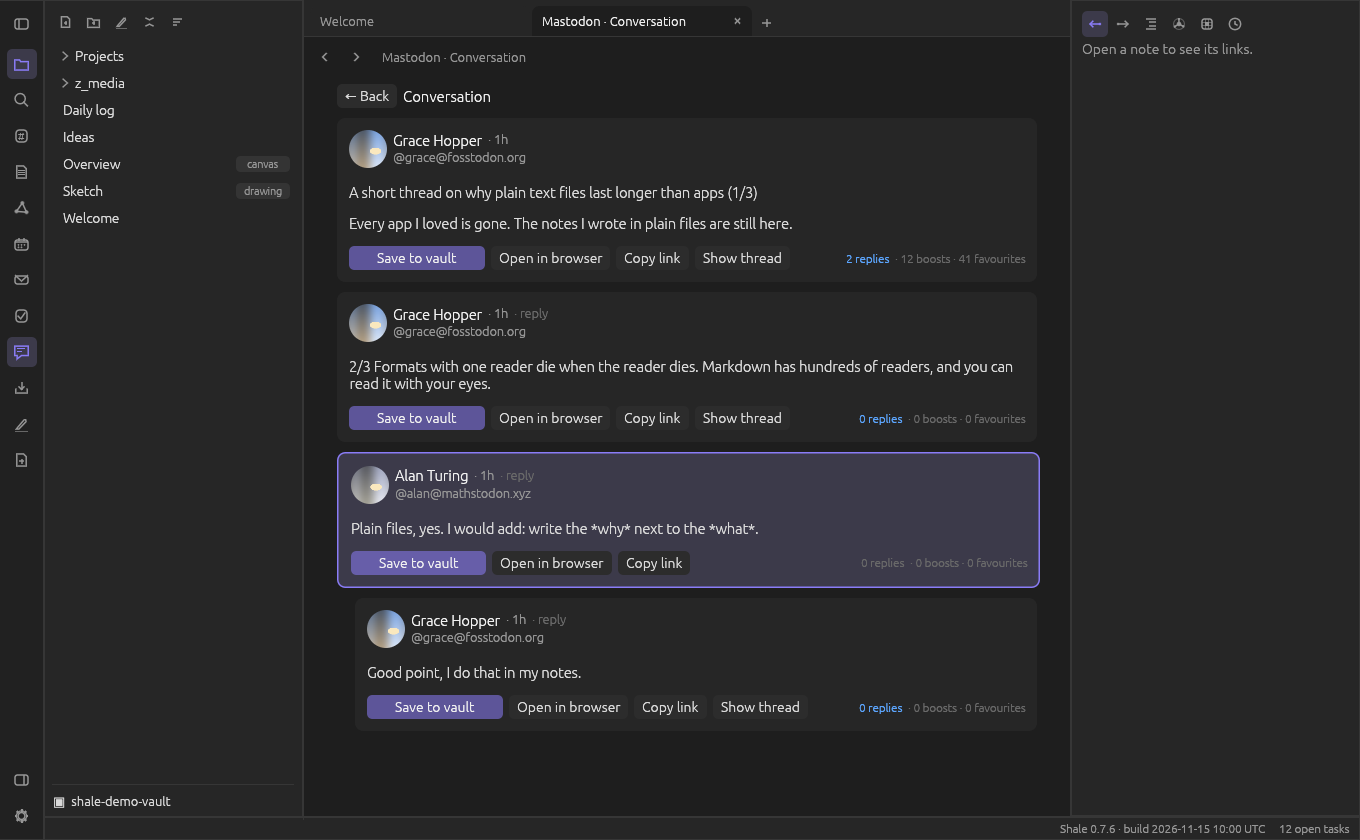
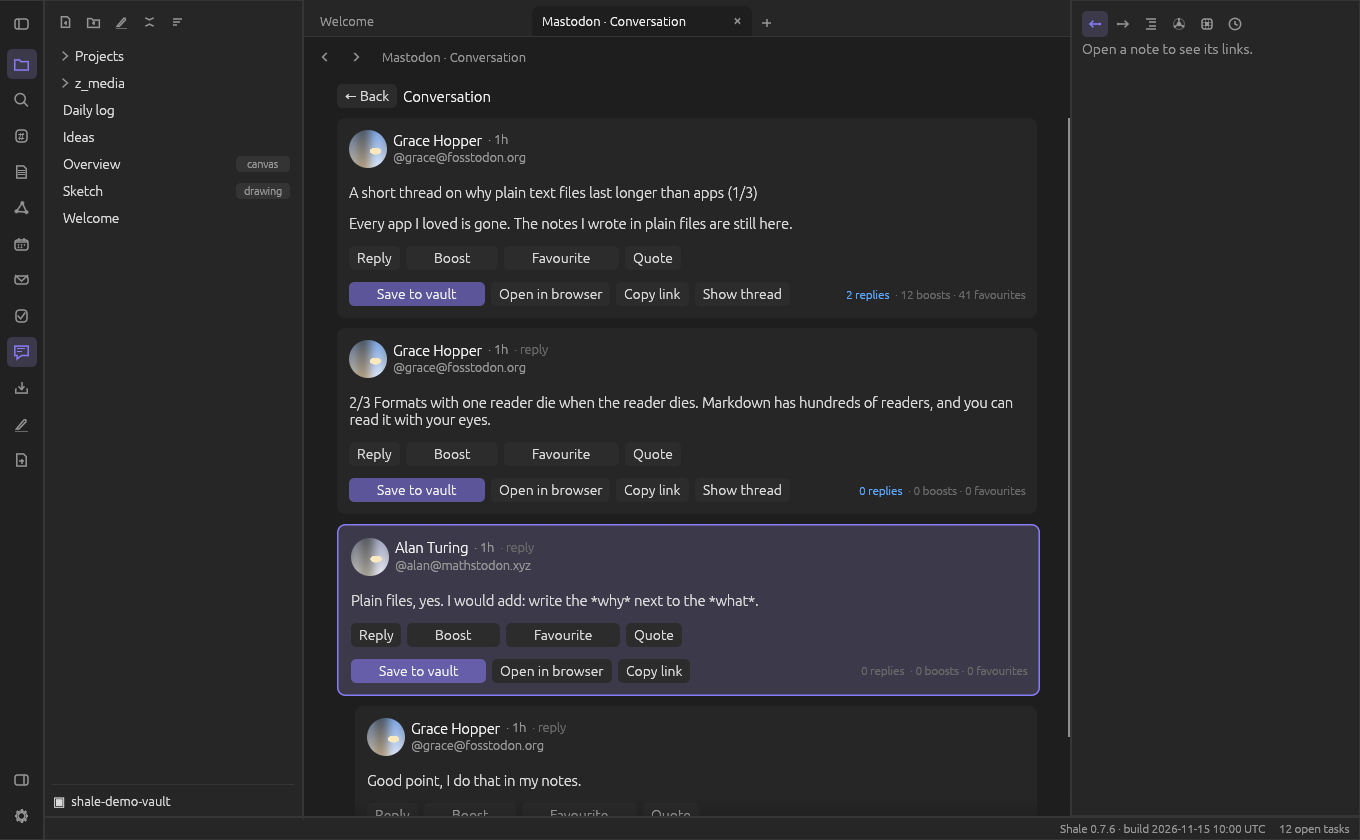
Docs, screenshots and changelog for writing to the feeds
FEATURES, the Feeds guide note, the settings reference (scopes), README,
changelog entry, a compose-box screenshot recipe and refreshed Feeds
screenshots (the cards have the new buttons). Upload temp files now go
through fsutil (private folder); spec references fixed.

Closes #561

diff --git a/src/social/actions.rs b/src/social/actions.rs
@@ -198,7 +198,7 @@ pub fn prepare(path: &Path, network: Network, limit: u64) -> Result<Prepared, St
     if meta.len() > MAX_MEDIA_BYTES {
         return Err(format!("{name} is too big ({} MB)", meta.len() / 1_000_000));
     }
-    let bytes = std::fs::read(path).map_err(|e| format!("{name} cannot be read ({e})"))?;
+    let bytes = crate::fsutil::read(path).map_err(|e| format!("{name} cannot be read ({e})"))?;
     let (mime, ext, format) = match image::guess_format(&bytes) {
         Ok(f @ image::ImageFormat::Png) => ("image/png", "png", f),
         Ok(f @ image::ImageFormat::Jpeg) => ("image/jpeg", "jpg", f),
@@ -257,18 +257,13 @@ pub struct TempFile(pub PathBuf);
 
 impl TempFile {
     pub fn new(bytes: &[u8], ext: &str) -> Result<TempFile, String> {
-        use std::io::Write;
         use std::sync::atomic::{AtomicUsize, Ordering};
         static N: AtomicUsize = AtomicUsize::new(0);
-        let path = std::env::temp_dir().join(format!("shale-upload-{}-{}.{ext}", std::process::id(), N.fetch_add(1, Ordering::SeqCst)));
-        let mut opts = std::fs::OpenOptions::new();
-        opts.write(true).create_new(true);
-        #[cfg(unix)]
-        std::os::unix::fs::OpenOptionsExt::mode(&mut opts, 0o600);
-        let mut f = opts.open(&path).map_err(|e| format!("could not prepare the picture ({e})"))?;
-        let t = TempFile(path);
-        f.write_all(bytes).map_err(|e| format!("could not prepare the picture ({e})"))?;
-        Ok(t)
+        // a folder only this user can enter (the runtime folder, else a private one in the temp folder)
+        let dir = crate::fsutil::private_temp_root("shale-upload").map_err(|e| format!("could not prepare the picture ({e})"))?;
+        let path = dir.join(format!("{}-{}.{ext}", std::process::id(), N.fetch_add(1, Ordering::SeqCst)));
+        crate::fsutil::create_new(&path, bytes).map_err(|e| format!("could not prepare the picture ({e})"))?;
+        Ok(TempFile(path))
     }
 }
 
@@ -464,7 +459,7 @@ pub(crate) mod tests {
         p
     }
 
-    // spec: SOC-053
+    // spec: SOC-053, SEC-026
     #[test]
     fn a_picture_is_read_for_upload_and_what_is_no_picture_or_too_big_is_refused_with_words() {
         let ok = file("small.png", &png(40, 30, false));
@@ -495,14 +490,15 @@ pub(crate) mod tests {
         assert!(prepare(&big, Network::Bluesky, 500).unwrap_err().contains("cannot be made small enough"));
     }
 
-    // spec: SOC-053
+    // spec: SOC-053, SEC-026
     #[test]
     fn the_file_curl_reads_is_private_and_gone_after_the_upload() {
         let t = TempFile::new(b"data", "png").unwrap();
         let path = t.0.clone();
-        assert_eq!(std::fs::read(&path).unwrap(), b"data");
+        assert_eq!(crate::fsutil::read(&path).unwrap(), b"data");
+        // it lies in a folder that only this user can enter
         #[cfg(unix)]
-        assert_eq!(std::os::unix::fs::PermissionsExt::mode(&std::fs::metadata(&path).unwrap().permissions()) & 0o777, 0o600, "only its owner can read it");
+        assert_eq!(std::os::unix::fs::PermissionsExt::mode(&std::fs::metadata(path.parent().unwrap()).unwrap().permissions()) & 0o777, 0o700);
         assert!(path.to_string_lossy().ends_with(".png") && !path.to_string_lossy().contains(['"', ';', ',']));
         drop(t);
         assert!(!path.exists());

diff --git a/src/config/text.rs b/src/config/text.rs
@@ -161,6 +161,7 @@ const DESCRIPTIONS: &[(&str, &str)] = &[
     ("social_accounts.server", "The https address of the server (the Mastodon instance, or the Bluesky server)."),
     ("social_accounts.handle", "What you sign in with: \"ada@mastodon.social\" or \"ada.bsky.social\"."),
     ("social_accounts.display_name", "What the account is called in the window."),
+    ("social_accounts.scopes", "Mastodon: the permissions the token was given at sign-in, such as \"read write\". Without \"write\" Shale asks you to sign in again before it likes, boosts or posts. Not a secret."),
     ("social_accounts.secret", "The access token or app password. It is written here only when there is no system keyring."),
     ("social_last", "The account and feed shown last in the feed view."),
     ("social_replies", "true: saving a post includes the replies of other people (the last choice in the Import dialog)."),
@@ -446,7 +447,7 @@ mod tests {
             left_sidebar_width: Some(280),
             right_sidebar_width: Some(310),
             mail_encryption_consent: Some("2026-11-14 12:00".into()),
-            social_accounts: vec![SocialAccountEntry { account: Account::new(Network::Bluesky, "https://bsky.social", "ada.bsky.social", "Ada"), secret: "tok".into() }],
+            social_accounts: vec![SocialAccountEntry { account: Account { scopes: Some("read write".into()), ..Account::new(Network::Mastodon, "https://m.test", "ada@m.test", "Ada") }, secret: "tok".into() }],
             social_last: Some(("a".into(), "home".into())),
             media_volume: 0.8,
             outside_files: crate::media::intake::OutsideFiles::Link,

diff --git a/src/social/demo.rs b/src/social/demo.rs
@@ -106,12 +106,14 @@ pub fn posts() -> Vec<Post> {
         "Morning! Finished reading [@grace](https://fosstodon.org/@grace)'s notes on [#plaintext](https://demo.social/tags/plaintext). Worth your time: https://example.org/plain-text-forever",
     );
     p1.like_count = 17;
+    p1.mine.liked = true;
     p1.boost_count = 3;
     p1.reply_count = 2;
     let mut p2 = post("demo-2", linus, 25, "Merge window is open. Please send patches that compile.");
     p2.reposted_by = Some(ada);
     p2.like_count = 320;
     p2.boost_count = 88;
+    p2.mine.boosted = true;
     let mut p3 = post("demo-3", author("ken@demo.social", "Ken Thompson", 2.4), 41, "I would rather not say this out loud, but the weather forecast was right for once.");
     p3.content_warning = Some("Weather, mild sarcasm".into());
     let mut p4 = post("demo-4", author("margaret@space.example", "Margaret H.", 1.8), 62, "Sunrise over the lab this morning. Two shots, same hill.");

diff --git a/src/social/mastodon.rs b/src/social/mastodon.rs
@@ -463,6 +463,7 @@ mod tests {
         assert_eq!(r.iter().map(|r| (r.post.text_markdown.as_str(), r.depth)).collect::<Vec<_>>(), [("nice", 0), ("reply to cy", 1)]);
     }
 
+    // spec: SOC-056
     #[test]
     fn sign_in_feeds_paging_thread_and_media_against_a_mock_server() {
         if std::process::Command::new("curl").arg("--version").output().is_err() {
@@ -601,7 +602,7 @@ mod tests {
         Draft { text: text.into(), cw: String::new(), visibility: Visibility::Public, reply_to: None, quote: None, pictures: vec![], info: InstanceInfo::defaults(Network::Mastodon) }
     }
 
-    // spec: SOC-051, SOC-052
+    // spec: SOC-051, SOC-052, SOC-054
     #[test]
     fn a_status_is_posted_with_its_visibility_warning_and_the_post_it_answers_against_a_mock_server() {
         if std::process::Command::new("curl").arg("--version").output().is_err() {

diff --git a/src/social/compose_ui.rs b/src/social/compose_ui.rs
@@ -228,10 +228,13 @@ fn confirm(ui: &mut Ui, c: &Compose, entry: &SocialAccountEntry, info: &super::a
     ui.add_space(6.0);
     ui.with_layout(egui::Layout::right_to_left(egui::Align::Center), |ui| {
         let post = ui.add(egui::Button::new(RichText::new("Post").strong()).fill(theme::palette().accent.gamma_multiply(0.55)));
-        post.request_focus();
         rects.push(("compose:confirm-post".into(), post.rect));
         out.post |= post.clicked();
         let cancel = ui.button("Cancel");
+        // Enter or Space on the question presses Post, unless the person moved to Cancel
+        if !cancel.has_focus() && !post.has_focus() {
+            post.request_focus();
+        }
         rects.push(("compose:confirm-cancel".into(), cancel.rect));
         out.back |= cancel.clicked();
     });

diff --git a/src/social/compose.rs b/src/social/compose.rs
@@ -145,7 +145,7 @@ impl Compose {
             path = vault.ok_or("Open a vault first, or type the full path of the picture.")?.join(&path);
         }
         let mut head = [0u8; 32];
-        let n = std::fs::File::open(&path).and_then(|mut f| std::io::Read::read(&mut f, &mut head)).map_err(|e| format!("{typed} cannot be read ({e})"))?;
+        let n = crate::fsutil::open_read(&path).and_then(|mut f| std::io::Read::read(&mut f, &mut head)).map_err(|e| format!("{typed} cannot be read ({e})"))?;
         if !matches!(image::guess_format(&head[..n]), Ok(image::ImageFormat::Png | image::ImageFormat::Jpeg | image::ImageFormat::Gif | image::ImageFormat::WebP)) {
             return Err(format!("{typed} is not a JPEG, PNG, GIF or WebP picture."));
         }

diff --git a/src/social/bluesky.rs b/src/social/bluesky.rs
@@ -935,7 +935,7 @@ mod tests {
         assert_eq!(handle.join().unwrap().len(), 8, "the login, 3 uploads, 2 records and 2 reads");
     }
 
-    // spec: SOC-052
+    // spec: SOC-051, SOC-052
     #[test]
     fn links_mentions_and_tags_become_facets_with_utf8_byte_offsets() {
         let text = "Grüße 😀 @ada.test see (https://e.com/x?a=1). #Rust, @nobody.test and #123 @bad";

diff --git a/src/social/accounts_ui.rs b/src/social/accounts_ui.rs
@@ -480,7 +480,7 @@ mod tests {
         std::process::Command::new("curl").arg("--version").output().is_ok()
     }
 
-    // spec: SOC-001, SOC-004, SOC-010
+    // spec: SOC-001, SOC-004, SOC-010, SOC-056
     #[test]
     fn a_mastodon_sign_in_opens_the_browser_takes_the_code_and_adds_the_account() {
         if !has_curl() {

diff --git a/docs/spec/social.md b/docs/spec/social.md
@@ -64,8 +64,8 @@ secret on standard input) in background jobs (`jobs::run`, SOC-010).
 | SOC-053 | A post can have up to 4 pictures, each with a description (alt text, at most 1500 characters). A picture is added by its path (typed or pasted; a relative path starts at the open vault; there is no native file dialog in Shale yet) and must be a JPEG, PNG, GIF or WebP file. Mastodon: `POST /api/v2/media` (multipart, `description`) for each, a picture the server still processes (no address yet) is asked for until it is ready, then `media_ids` of the status; a picture over the server's limit is refused with its size. Bluesky: `com.atproto.repo.uploadBlob` for each, then an `app.bsky.embed.images` embed with the alt text; Bluesky takes at most 1 MB per picture, so **a bigger picture is scaled down and saved as JPEG until it fits** (transparent parts turn white), a GIF that is too big is refused (scaling would end its animation). The uploads run in the send job; see SEC-026 for how the file reaches curl. | IS NOW | `social/actions.rs` (`prepare`), `social/mastodon.rs` (`upload`), `social/bluesky.rs` (`send`), `social/compose.rs` (`add_picture`) | `write_tests.rs::soc_053_pictures_are_added_by_path_get_a_description_and_can_be_removed_and_a_picture_alone_is_a_post`, `actions.rs::a_picture_is_read_for_upload_and_what_is_no_picture_or_too_big_is_refused_with_words`, `mastodon.rs::pictures_are_uploaded_with_their_description_and_waited_for_before_the_status_names_them`, `bluesky.rs::pictures_are_blobs_with_alt_text_in_an_images_embed_also_beside_a_quote_against_a_mock_server` |
 | SOC-054 | **Quote** writes a post that quotes the card's post. Bluesky: an `app.bsky.embed.record` with the post's `uri` and `cid` (`app.bsky.embed.recordWithMedia` when there are pictures too). Mastodon: `quoted_status_id`, which exists from Mastodon 4.5 (API version 7, read from `api_versions.mastodon` of the instance answer; the issue named 4.4, the API documentation says 4.5); a server that cannot quote gets the web address of the post at the end of the text instead, and the box says so ("This server cannot quote posts yet…"); the address counts in the limit. | IS NOW | `social/compose.rs` (`final_text`, `real_quote`), `social/mastodon.rs` (`status_body`), `social/bluesky.rs` (`send`) | `write_tests.rs::soc_054_a_quote_without_server_support_puts_the_address_into_the_text_and_says_so`, `write_tests.rs::soc_054_a_server_that_can_quote_gets_the_quoted_post_and_a_text_without_the_address`, `bluesky.rs::a_post_is_a_record_with_facets_the_reply_references_and_the_quote_embed_against_a_mock_server`, `bluesky.rs::pictures_are_blobs_with_alt_text_in_an_images_embed_also_beside_a_quote_against_a_mock_server`, `mastodon.rs::a_status_is_posted_with_its_visibility_warning_and_the_post_it_answers_against_a_mock_server` |
 | SOC-055 | Send (the button, or Ctrl+Enter) never posts at once: the box asks **"Post this?"** with the account handle, who may see it, the text and the number of pictures, and **Post** / **Cancel** (Cancel and Esc go back to the text, which is kept; Esc in the text closes the box). Only Post sends. While the job runs the box is disabled with "Posting…": Send and Cancel do nothing, so nothing goes out twice. Boosts and favourites do not ask (SOC-050). | IS NOW | `social/compose_ui.rs` (`confirm`), `social/compose.rs` (`Stage`), `social/state.rs` | `write_tests.rs::soc_055_send_asks_post_this_first_cancel_goes_back_to_the_text_and_post_sends`, `write_tests.rs::soc_055_while_it_is_sent_the_box_is_busy_and_nothing_goes_out_twice` |
-| SOC-057 | When the post is out the box closes and "Posted" shows. The new post (the server's own copy: Mastodon's answer, Bluesky read back, or made from what was sent when the feed server does not have it yet) **waits** behind the "N new posts" button of the account's own Home / Following feed (SOC-027), so the view never moves; it goes into the post index (SOC-030); a reply adds one to the reply count of the post it answers everywhere that post is shown, and joins the conversations that hold that post (the opened post or one of its replies) in their tree. A failed send keeps the box and the text with the message (SOC-051); one the server refuses for its permissions ends as SOC-056. | IS NOW | `social/compose.rs` (`sent`), `social/thread.rs` (`add_reply`) | `write_tests.rs::soc_057_a_sent_post_waits_above_the_list_without_moving_the_view_and_is_indexed_and_a_failure_keeps_the_text`, `write_tests.rs::soc_057_a_reply_sent_from_the_conversation_joins_it`, `write_tests.rs::soc_056_a_send_that_the_server_refuses_for_its_permissions_keeps_the_text_and_opens_the_sign_in` |
-| SOC-056 | Mastodon sign-in asks for `read write` (`mastodon::SCOPE`); the permissions the server's token answer names are kept with the account in the settings (`Account::scopes`, not a secret; a pasted token and accounts from before have none: unknown). An account known to have only `read` that is asked to like, boost, reply, quote or write a new post sends nothing: the message "Sign in again to allow writing" shows and the accounts dialog opens on that account's Edit sign-in (SOC-043), whose new sign-in replaces the secret and the permissions. When the permissions are unknown the server decides: a 403 "outside the authorized scopes" answer ends the same way and is remembered (`scopes` = `read`), so the next try does not ask the server. Reading is never affected. Bluesky app passwords can write. | IS NOW | `social/mod.rs` (`Account::may_write`), `social/actions.rs` (`write_error`), `social/mastodon.rs` (`SCOPE`, `exchange_code`), `app/social.rs` (`social_tick`), `social/accounts_ui.rs` | `write_tests.rs::soc_056_an_account_that_signed_in_with_read_only_is_sent_to_its_sign_in_before_anything_is_sent`, `write_tests.rs::soc_056_a_refusal_of_the_server_is_remembered_and_opens_the_sign_in_too`, `mod.rs::an_account_keeps_its_permissions_without_a_secret_and_one_from_before_has_none`, `mastodon.rs::favourite_and_boost_post_to_the_status_and_read_the_counts_the_server_names`, `mastodon.rs::sign_in_feeds_paging_thread_and_media_against_a_mock_server` (the scope asked for and kept), `accounts_ui.rs::a_mastodon_sign_in_opens_the_browser_takes_the_code_and_adds_the_account` |
+| SOC-057 | When the post is out the box closes and "Posted" shows. The new post (the server's own copy: Mastodon's answer, Bluesky read back, or made from what was sent when the feed server does not have it yet) **waits** behind the "N new posts" button of the account's own Home / Following feed (SOC-027), so the view never moves; it goes into the post index (SOC-030); a reply adds one to the reply count of the post it answers everywhere that post is shown, and joins the conversations that hold that post (the opened post or one of its replies) in their tree. A failed send keeps the box and the text with the message (SOC-051); one the server refuses for its permissions ends as SOC-056. | IS NOW | `social/compose.rs` (`sent`), `social/thread.rs` (`add_reply`) | `write_tests.rs::soc_057_a_sent_post_waits_above_the_list_without_moving_the_view_and_is_indexed_and_a_failure_keeps_the_text`, `write_tests.rs::soc_057_a_reply_sent_from_the_conversation_joins_it` |
+| SOC-056 | Mastodon sign-in asks for `read write` (`mastodon::SCOPE`); the permissions the server's token answer names are kept with the account in the settings (`Account::scopes`, not a secret; a pasted token and accounts from before have none: unknown). An account known to have only `read` that is asked to like, boost, reply, quote or write a new post sends nothing: the message "Sign in again to allow writing" shows and the accounts dialog opens on that account's Edit sign-in (SOC-043), whose new sign-in replaces the secret and the permissions. When the permissions are unknown the server decides: a 403 "outside the authorized scopes" answer ends the same way and is remembered (`scopes` = `read`), so the next try does not ask the server. Reading is never affected. Bluesky app passwords can write. | IS NOW | `social/mod.rs` (`Account::may_write`), `social/actions.rs` (`write_error`), `social/mastodon.rs` (`SCOPE`, `exchange_code`), `app/social.rs` (`social_tick`), `social/accounts_ui.rs` | `write_tests.rs::soc_056_an_account_that_signed_in_with_read_only_is_sent_to_its_sign_in_before_anything_is_sent`, `write_tests.rs::soc_056_a_refusal_of_the_server_is_remembered_and_opens_the_sign_in_too`, `write_tests.rs::soc_056_a_send_that_the_server_refuses_for_its_permissions_keeps_the_text_and_opens_the_sign_in`, `mod.rs::an_account_keeps_its_permissions_without_a_secret_and_one_from_before_has_none`, `mastodon.rs::favourite_and_boost_post_to_the_status_and_read_the_counts_the_server_names`, `mastodon.rs::sign_in_feeds_paging_thread_and_media_against_a_mock_server` (the scope asked for and kept), `accounts_ui.rs::a_mastodon_sign_in_opens_the_browser_takes_the_code_and_adds_the_account` |
 
 ## Searching posts
 

diff --git a/docs/spec/features.md b/docs/spec/features.md
@@ -110,7 +110,7 @@ are deliberately not specced beyond their guarantees; their tests check the deta
 | SEC-023 | Memory hardening per system. Locking (SEC-018): `mlock` on Linux and macOS, `VirtualLock` on Windows (the page size from `GetSystemInfo`; Windows lets a process lock only a few pages by default, so a failure is counted and told like a refused `mlock`). A release build (SEC-019): Linux `prctl(PR_SET_DUMPABLE, 0)`; macOS `setrlimit(RLIMIT_CORE, 0)` and `ptrace(PT_DENY_ATTACH)`; Windows: nothing is done, because it has no equivalent of the dumpable flag for processes of the same user, and excluding Shale from Windows Error Reporting would mean a registry change outside Shale's own files, so on Windows a core dump or a memory read by another process of the same user is not prevented, and SEC-020 says so. | IS NOW | `secret.rs` | `secret.rs::a_buffer_is_locked_when_the_system_lets_it_and_still_works_when_not` (every system), `secret.rs::harden_process_makes_a_release_process_not_dumpable` (Linux), `secret.rs::harden_process_gives_a_release_process_no_core_file` (macOS), `secret.rs::harden_process_does_nothing_on_windows` (Windows) |
 | SEC-024 | macOS: secrets go to the Keychain (`secrets/keychain.rs`, `security-framework`): one generic password per (app, server, user) in the default keychain, service `Shale <app>`, account `<len>:<server>:<user>` (`secrets/names.rs`: no two triples share a name, apps never see each other's entries; `:` and any Unicode are fine). The secret is read straight into a `Secret` and the framework's buffer is zeroed (SEC-017). `available()` asks once for an item that does not exist: "not found" means the Keychain works. A cancelled or refused unlock prompt makes `store` false, so SEC-011 keeps the secret in memory for this run. | IS NOW | `secrets/keychain.rs`, `secrets/names.rs` | `names.rs::keyring_item_names_never_collide`; `keychain.rs::keychain_stores_overwrites_looks_up_and_clears`, `keychain_entries_of_different_app_server_user_do_not_mix`, `keychain_round_trips_colons_and_unicode` (GitHub macos job; on CI they must not skip) |
 | SEC-025 | Windows: secrets go to the Credential Manager (`secrets/wincred.rs`, `windows-sys` `CredWriteW`/`CredReadW`/`CredDeleteW`): one generic credential per (app, server, user), persisted for this user on this computer, target `shale:<len>:<app>:<len>:<server>:<user>` (`secrets/names.rs`), the user in the user-name field, the secret as UTF-8 blob. The blob Windows hands out is zeroed before `CredFree`. A secret over 2560 bytes (the Credential Manager's limit) or a name with a NUL makes `store` false (SEC-011). `available()` is always true. Limit: Windows compares target names without regard to case, so two user names on the same server that differ only in case share one entry (CalDAV server names are lower-cased already). | IS NOW | `secrets/wincred.rs`, `secrets/names.rs` | `names.rs::keyring_item_names_never_collide`; `wincred.rs::credential_manager_stores_overwrites_looks_up_and_clears`, `credential_manager_entries_of_different_app_server_user_do_not_mix`, `credential_manager_round_trips_colons_and_unicode`, `credential_manager_refuses_what_it_cannot_hold` (GitHub windows job) |
-| SEC-026 | Uploads of pictures to a social server (SOC-053): the file is a private temporary copy Shale made (mode 0600 on Unix, a name of its own without `"`, `;`, `,` or control characters, removed when the upload ends) that curl reads itself from the `-K -` input (`data-binary = @file` or `form = file=@file`), so neither the picture nor the token is ever on a command line or in an address; the token goes only to the account's own server as for every other request (SOC-015); a path or type that could change the meaning of curl's input is refused before curl runs; a picture is at most 64 MB to read, and at most what the server allows (Mastodon: the instance's limit; Bluesky: 1 MB). | IS NOW | `calendar/dav.rs` (`request_upload`), `social/actions.rs` (`TempFile`, `prepare`) | `dav.rs::an_upload_names_its_file_to_curl_through_its_input_never_the_command_line_and_odd_names_are_refused`, `actions.rs::the_file_curl_reads_is_private_and_gone_after_the_upload`, `actions.rs::a_picture_is_read_for_upload_and_what_is_no_picture_or_too_big_is_refused_with_words` |
+| SEC-026 | Uploads of pictures to a social server (SOC-053): the file is a private temporary copy Shale made (in a folder only this user can enter, `fsutil::private_temp_root`; a name of its own without `"`, `;`, `,` or control characters, removed when the upload ends) that curl reads itself from the `-K -` input (`data-binary = @file` or `form = file=@file`), so neither the picture nor the token is ever on a command line or in an address; the token goes only to the account's own server as for every other request (SOC-015); a path or type that could change the meaning of curl's input is refused before curl runs; a picture is at most 64 MB to read, and at most what the server allows (Mastodon: the instance's limit; Bluesky: 1 MB). | IS NOW | `calendar/dav.rs` (`request_upload`), `social/actions.rs` (`TempFile`, `prepare`) | `dav.rs::an_upload_names_its_file_to_curl_through_its_input_never_the_command_line_and_odd_names_are_refused`, `actions.rs::the_file_curl_reads_is_private_and_gone_after_the_upload`, `actions.rs::a_picture_is_read_for_upload_and_what_is_no_picture_or_too_big_is_refused_with_words` |
 
 ## Import (IMP)
 

diff --git a/docs/userguide/Feeds.md b/docs/userguide/Feeds.md
@@ -49,6 +49,42 @@ social` shows made-up posts.
 
 ![[social-thread.png]]
 
+# Like, boost, reply, quote and write
+
+Every post has **Reply**, **Boost** (Bluesky: **Repost**), **Favourite** (Bluesky: **Like**) and
+**Quote** buttons, in the feed and in a conversation. **New post** in the toolbar starts a post of
+your own.
+
+- **Boost and Favourite / Like** act at once and do not ask. The button is filled when you did
+  it; press it again to take it back. A spinner shows inside the button while the server answers
+  (the button keeps its size and nothing moves), the count changes when it went well, and a
+  message tells you when it did not.
+- **The compose box** opens over the tab. It shows how long the post is against the limit of your
+  server ("123 / 500"; Mastodon's limit comes from the server, an address counts 23; Bluesky
+  allows 300 characters). **Send** or **Ctrl+Enter** is disabled while the post is empty or too
+  long. A **reply** starts with the author's @name on Mastodon and uses the same visibility as the
+  post it answers if that is not public. Mastodon also has **Content warning** and **who may
+  see it** (public, unlisted, followers only, mentioned people only). Bluesky has no content
+  warnings for text, so the box has none. Links and @names in a Bluesky post become links.
+- **Pictures**: up to four. Type or paste the path of a picture (a path without a folder at the
+  front starts at your vault) and press **Add picture**, then describe each one in its **alt text**
+  field. JPEG, PNG, GIF and WebP work. Bluesky takes pictures up to 1 MB, so Shale scales a bigger one down and
+  sends it as a JPEG (a too-big GIF is refused); a Mastodon picture over the server's limit is
+  refused with its size.
+- **Quote**: Bluesky and Mastodon 4.5 or later quote the post for real. On an older Mastodon
+  server the box adds the post's web address at the end of your text and tells you.
+- **Post this?** Sending always asks first, with your handle and who may see the post: **Post**
+  sends, **Cancel** (or Esc) goes back to your text. While it is sent the box is busy and nothing goes out twice. If it
+  fails the box stays open with your text and the message.
+- When it is out, the box closes and the post waits behind the "N new posts" button of your own
+  feed, so the list does not move; a reply also appears in the conversation you wrote it in.
+
+![[social-compose.png]]
+
+**Mastodon needs permission to write.** New sign-ins ask for it. If you signed in before with
+read-only access, reading keeps working, and the first like, boost, reply or post says "Sign in
+again to allow writing" and opens **Edit** for that account: sign in once more and write.
+
 # Search the posts you loaded
 
 Every post a feed brings in is kept in a local search index. The sidebar search (Ctrl+Shift+F)

diff --git a/docs/FEATURES.md b/docs/FEATURES.md
@@ -1025,6 +1025,28 @@ key or a passphrase, never looks a key up on the network by itself, and tells yo
   and the text (a thread: every post in order, numbered); the box **Header list in the note
   body** also writes them as a list below the title (IMP-058). The pictures are saved in `z_media/`, with their descriptions. A post
   that was saved before, also as part of a thread, is marked "Imported before".
+- **Like, boost, reply, quote, post**: every post has **Reply**, **Boost** / **Repost**,
+  **Favourite** / **Like** and **Quote** buttons (also in the conversation view), and the toolbar
+  has **New post**. Boost and Favourite / Like toggle (a second press takes it back), show whether
+  you did it (a filled button), and change the counts only when the server said yes; a spinner
+  inside the button shows while it runs and nothing moves. The compose box has the text with a
+  live counter (Mastodon: the server's limit, 500 by default, addresses count 23; Bluesky: 300
+  characters), on Mastodon a content warning and who may see the post (a reply starts with the
+  author's @mention and is no more public than the post it answers), up to **4 pictures with a
+  description each** (type the path of a file, or of one in the vault; JPEG, PNG, GIF, WebP;
+  Bluesky takes 1 MB, so bigger pictures are scaled down), and **Send** (Ctrl+Enter), which
+  always asks **"Post this?"** with your handle and who may see it before anything is posted.
+  Boosts and favourites do not ask. A **quote** uses the network's own quote (Bluesky; Mastodon
+  4.5 and later); for an older Mastodon server the post's web address is put into the text and
+  the box says so. Bluesky links, mentions and hashtags become clickable. When it is sent the box
+  closes and the post waits behind the "new posts" button (the view does not move); a failed send
+  keeps your text. **Mastodon accounts need the permission to write**: new sign-ins ask for it;
+  an account you signed in to before with read-only access keeps reading, and the first like,
+  boost, reply or post says "Sign in again to allow writing" and opens that account's **Edit**
+  sign-in.
+
+![The compose box](userguide/z_media/screenshots/social-compose.png)
+
 - Try it without an account: `shale --screenshot out.png --view social` shows made-up posts.
 
 ## People (contact notes)
